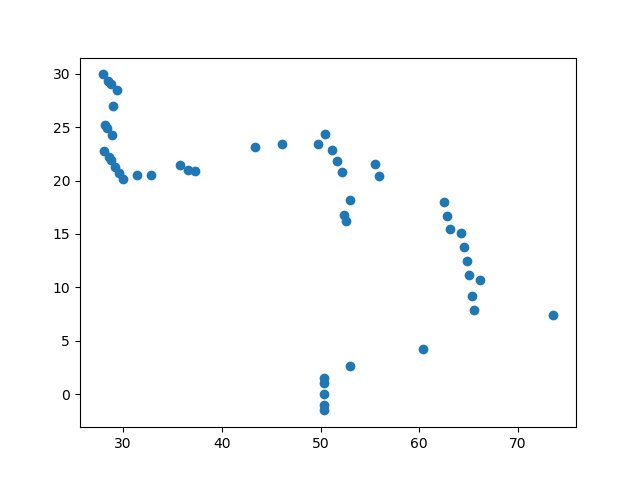
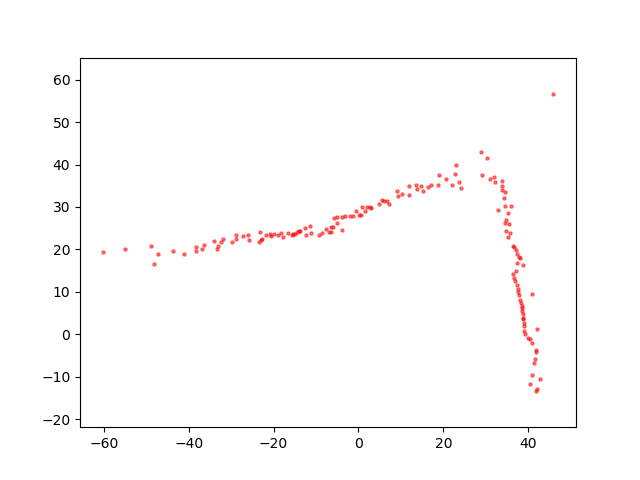
Olympiade

diff --git a/receive.py b/receive.py
@@ -3,7 +3,7 @@ import random
 import re
 import subprocess
 import time
-from math import cos, floor, sin
+from math import cos, floor, sin, atan2, pi
 
 import matplotlib.pyplot as plt
 import numpy as np
@@ -11,8 +11,89 @@ import serial
 
 import operator
 
+def polToCar(center, dist, angle):
+    return (cos(angle)*dist+center[0], sin(angle)*dist + center[1])
 
-def doAverage(mesures, averageSize=2):
+def moindreCarre(mesX, mesY):
+    moyX = sum(mesX) / len(mesX)
+    moyY = sum(mesY) / len(mesY)
+
+    denom = sum( pow(np.subtract(mesX,moyX), 2) )
+
+    if denom == 0:
+        denom = 0.000000001
+
+    a = sum( np.subtract(mesX,moyX)*np.subtract(mesY,moyY) ) / denom
+    b = moyY-(a*moyX)
+    return (a, b)
+
+def angleBetweenLines(a1, a2):
+    denom = 1+a1*a2
+    if denom == 0:
+        denom = 0.000000001
+    return atan2(a1-a2, denom)
+
+def projeter(a, b, u, v):
+    #d = v+u/a
+    #y = (b+a*d)/(1+a)
+    #x = (y-b)/a
+
+    return (u, u*a+b)
+
+def filterLine(mesures):
+    # always keep smallest angle
+    mesX = mesures[0]
+    mesY = mesures[1]
+
+    newMesuresX = []
+    newMesuresY = []
+    '''
+    droite = moindreCarre(mesX, mesY)
+
+    for last in range(len(mesX)):
+        newPoint = projeter(droite[0], droite[1], mesX[last], mesY[last])
+        newMesuresX.append(newPoint[0])
+        newMesuresY.append(newPoint[1])
+    '''
+
+    averageOn = 5
+    
+    droite = moindreCarre(mesX[0 : averageOn], mesY[0 : averageOn])
+
+    currentA = droite[0]
+    currentB = droite[1]
+    clampedPoints = averageOn
+
+    for i in range(averageOn+1, len(mesX)):
+        droite = moindreCarre(mesX[i-averageOn : i], mesY[i-averageOn : i])
+
+        if angleBetweenLines(droite[0], currentA) > pi/6: # point is on a new line
+
+            # clamp all previous points
+            for last in range(i-clampedPoints, i):
+                newPoint = projeter(currentA, currentB, mesX[last], mesY[last])
+                newMesuresX.append(newPoint[0])
+                newMesuresY.append(newPoint[1])
+
+            currentA = droite[0]
+            currentB = droite[1]
+            clampedPoints = averageOn
+        else: # point is on current line
+            clampedPoints += 1
+            droite = moindreCarre( mesX[i-clampedPoints : i], mesY[i-clampedPoints : i] )
+            currentA = droite[0]
+            currentB = droite[1]
+    try:
+        for last in range(len(mesX)-clampedPoints, len(mesX)):
+            newPoint = projeter(currentA, currentB, mesX[last], mesY[last])
+            newMesuresX.append(newPoint[0])
+            newMesuresY.append(newPoint[1])
+    except:
+        pass
+
+    return [newMesuresX, newMesuresY]
+
+def toArray(mesures):
     for mes in mesures:
         mesures[mes] = sum(mesures[mes]) / len(mesures[mes])
 
@@ -21,22 +102,13 @@ def doAverage(mesures, averageSize=2):
     newMesuresX = []
     newMesuresY = []
 
-    for counter, mes in enumerate(sorted_mesures):
-        tempArray = []
-        for i in range(-averageSize, averageSize+1):
-            tempArray.append(sorted_mesures[min(max(i+counter, 0), len(sorted_mesures)-1)][1])  #min(max(i, 0), len(sorted_mesures)-1)
-
-        cart = polToCar((0,0), sorted(tempArray)[averageSize], mes[0])
+    for mes in sorted_mesures:
+        cart = polToCar((0,0), mes[1], float(mes[0]))
 
         newMesuresX.append(cart[0])
         newMesuresY.append(cart[1])
 
     return [newMesuresX, newMesuresY]
-
-
-def polToCar(center, dist, angle):
-    return (cos(angle)*dist+center[0], sin(angle)*dist + center[1])
-
 
 try:
     os.system("python -m serial.tools.list_ports -v")
@@ -45,7 +117,7 @@ try:
 
     mesure = {}
 
-    plt.axis([-200, 200, -200, 200])
+    plt.axis('equal')
     while True:
         ser.write(bytes([1]))
         point = ser.readline()
@@ -65,12 +137,17 @@ try:
                     mesure[float(point[1])] = [float(point[0])]
             
         except Exception as e:
+            print(point)
             print(e)
-        
-        plt.clf()
-        result = doAverage(mesure.copy(), averageSize=4)
-        plt.scatter(result[0], result[1])
 
+        if len(mesure) > 1:
+            plt.clf()
+            plt.axis('equal')
+            result = toArray(mesure.copy())
+            filtered = filterLine(result)
+            #plt.scatter(filtered[0], filtered[1], alpha=1, s=10, c="black")
+            plt.scatter(result[0], result[1], alpha=0.5, s=5, c="red")
+        
         plt.pause(0.01)
 except KeyboardInterrupt:
     print("Saving file")

diff --git a/MATLAB/mrsDiffDriveNavigation.m b/MATLAB/mrsDiffDriveNavigation.m
@@ -65,7 +65,7 @@ attachLidarSensor(viz,lidar);
 
 %% Initialize figures
 myFigure = figure('Name','Maps', 'NumberTitle','off');
-figure(myFigure);
+%figure(myFigure);
 ax1 = subplot(2, 2, 1);
 ax2 = subplot(2, 2, 2);
 ax3 = subplot(2, 2, 4);
@@ -82,6 +82,9 @@ safeAngle = 10;
 currentState = "start";
 obstacleAvoidance = false;
 waypoints = [];
+
+canGo = 0;
+
 
 %% Simulation loop
 r = robotics.Rate(1/sampleTime);
@@ -162,7 +165,7 @@ for idx = 2:numel(tVec)
     end
     
     % Display everything
-    figure(myFigure);
+    %figure(myFigure);
     
     if size(knownHoles, 1) > 0
         distance = [];
@@ -350,4 +353,14 @@ for idx = 2:numel(tVec)
     viz(pose(:,idx), waypoints, ranges);
     
     waitfor(r);
+    
+    if canGo == 0
+        while waitforbuttonpress == 0
+            continue;
+        end
+        canGo = canGo+1;
+    elseif canGo == 1
+        waitforbuttonpress
+        canGo = canGo+1;
+    end
 end

diff --git a/MATLAB/pol2car.m b/MATLAB/pol2car.m
@@ -1,0 +1,33 @@
+function cart = pol2car(pol, pos, clamp, resolution)
+%% Variables
+%
+%   'pol' should be : [distance angle; distance angle; ...]
+%   'pos' should be : [X Y; X Y; ...]
+%   'clamp' should be : [min max]
+
+if ~exist('pos','var')
+    pos = zeros(size(pol, 1), 2);
+end
+if ~exist('clamp','var')
+    clamp = -1;
+end
+if ~exist('resolution','var')
+    resolution = 100000;
+end
+
+tempArray = zeros(size(pol, 1), 2);
+
+for i = 1:size(pol, 1)
+    X = cos(pol(i, 2))*pol(i, 1) + pos(i, 1);
+    Y = sin(pol(i, 2))*pol(i, 1) + pos(i, 2);
+    newA = [round(X*resolution), round(Y*resolution)]/resolution;
+    if clamp ~= -1
+        newA = min(max(newA, clamp(1)), clamp(2));
+    end
+
+    tempArray(i, :) = newA;
+end
+
+cart = tempArray;
+
+end
